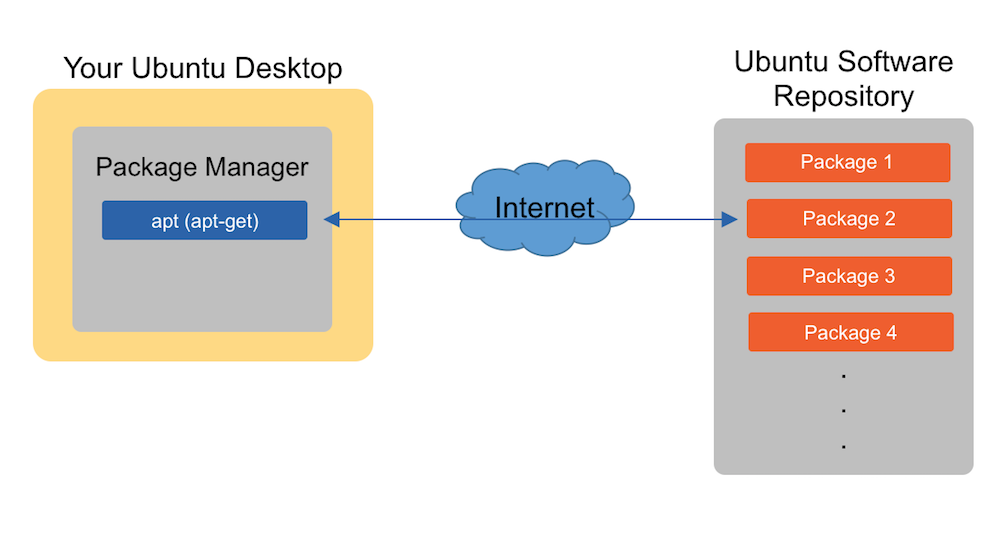
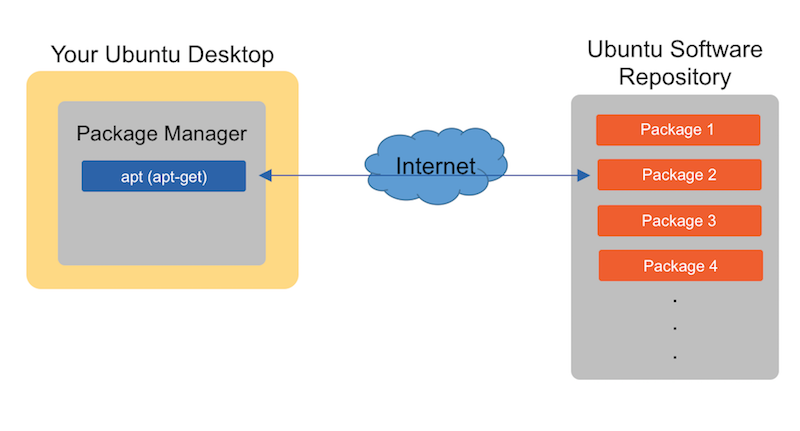
Mod 2 lab 1 figure resizing and table images
I had forgotten to resize figures for this lab, and to fix the tables (I'm using images instead of markdown because the tables look bad in markdown). Changes to mod 2 lab 1 only.

diff --git a/labs/02-python-01-home-lab-python/6.md b/labs/02-python-01-home-lab-python/6.md
@@ -38,21 +38,3 @@ Once you have installed both Python 2.7 and 3.x, Windows will run the Python 3.x
 
 Just to make sure, take a few moments to repeat the usual verification steps, completing one of these two tables.
 ![alt text](/posts/files/02-python-01-home-lab-python/assets/images/desktop-1-table-1.png)
-
-**Linux and Mac OS X:**
-
-| Command       | Version Listed | Directory Listed |
-|---------------|----------------|------------------|
-| python -V     |                | N/A              |
-| python3 -V    |                | N/A              |
-| which python  | N/A            |                  |
-| which python3 | N/A            |                  |
-
-**Windows:**
-
-| Command  | Version Listed | Directory Listed |
-|----------|----------------|------------------|
-| py -V    |                | N/A              |
-| py -2 -V |                | N/A              |
-| py -3 -V |                | N/A              |
-| where py | N/A            |                  |

diff --git a/labs/02-python-01-home-lab-python/5.md b/labs/02-python-01-home-lab-python/5.md
@@ -34,7 +34,7 @@ The installation process on most Windows OS’s follows a pretty typical Windows
 
 Note that on Windows, you should take the extra steps to put the **python** command in your system’s execution path. The Python installer, by default, does not add the directories with the Python commands in them to the PATH variable. You should override that default at installation, adding Python to your PATH. For Python 2.7, you have to first select the option to use custom settings for the installation, and then look for the option to add the commands to the path, as shown on the left side of the figure. The Python 3.6 process puts the checkbox on a screen that is part of each system’s installation process, as shown on the right side of the figure.
 
-![alt text](/posts/files/02-python-01-home-lab-python/assets/images/desktop-1-09.png)
+![alt text](/posts/files/02-python-01-home-lab-python/assets/images/desktop-1-09.jpeg)
 
 ## Installing Python 2.7 on Linux
 

diff --git a/labs/02-python-01-home-lab-python/7.md b/labs/02-python-01-home-lab-python/7.md
@@ -7,11 +7,6 @@ As a quick exercise, make sure you can start the Python interpreter, both using 
 Just for handy reference, this table lists the commands you should use start the Python interpreter from a command prompt, for each OS. Alternately, you can use the same commands, and list the filename at the end, to interpret a program that you have edited into a file.
 ![alt text](/posts/files/02-python-01-home-lab-python/assets/images/desktop-1-table-2.png)
 
-|            | Linux       | Mac         | Windows   |
-|------------|-------------|-------------|-----------|
-| Python 2.x | **python**  | **python**  | **py -2** |
-| Python 3.x | **python3** | **python3** | **py**<br>**py -3**  |
-
 ## Brief Intro: Differences in Print and Division
 
 This exercise uses two differences between Python 2 and 3 to show the differences when testing.
